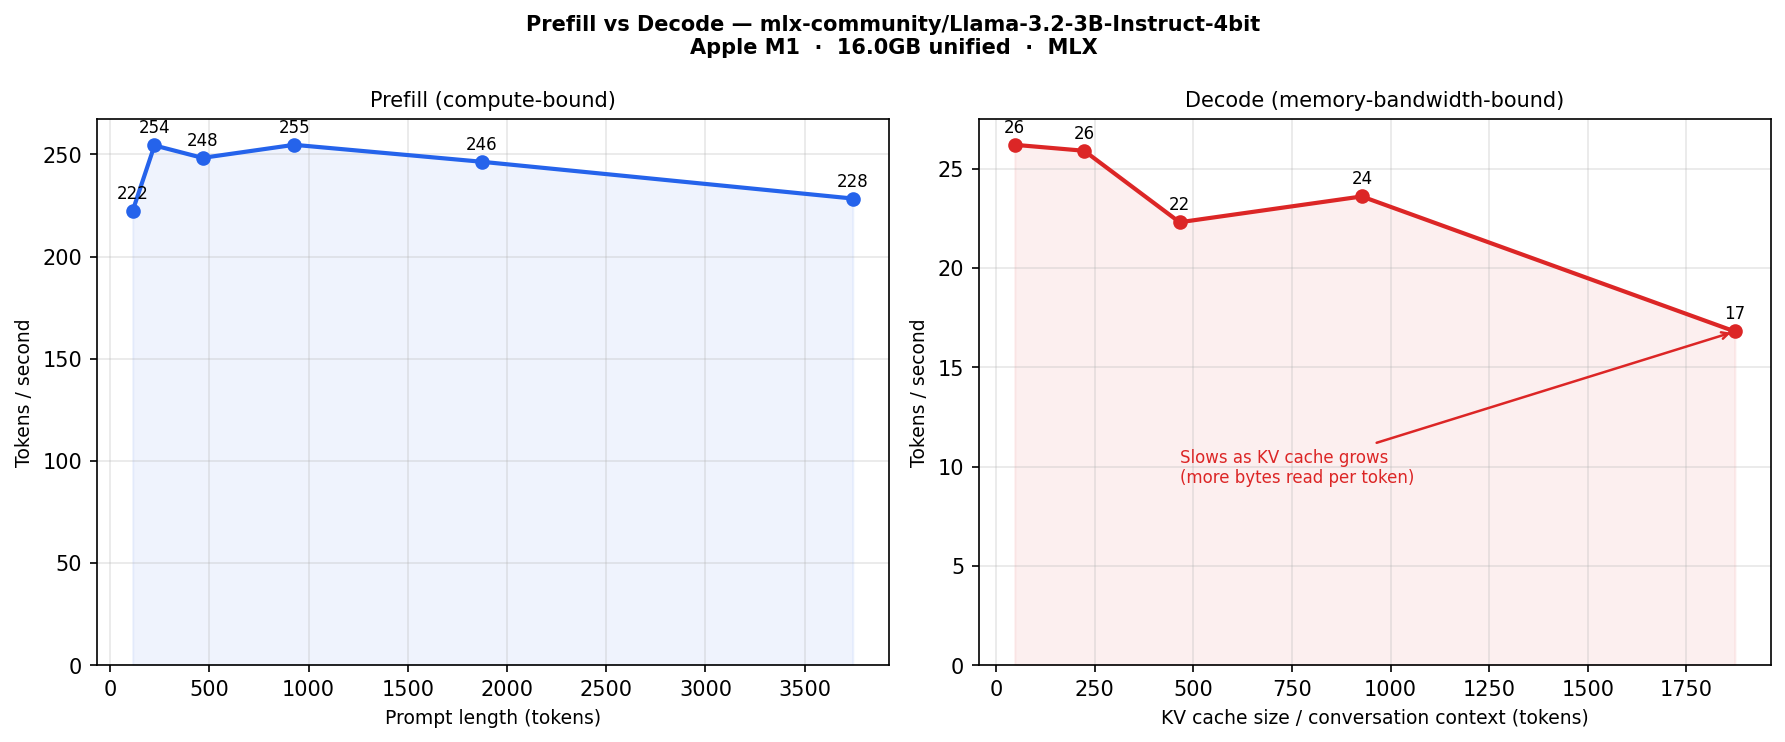
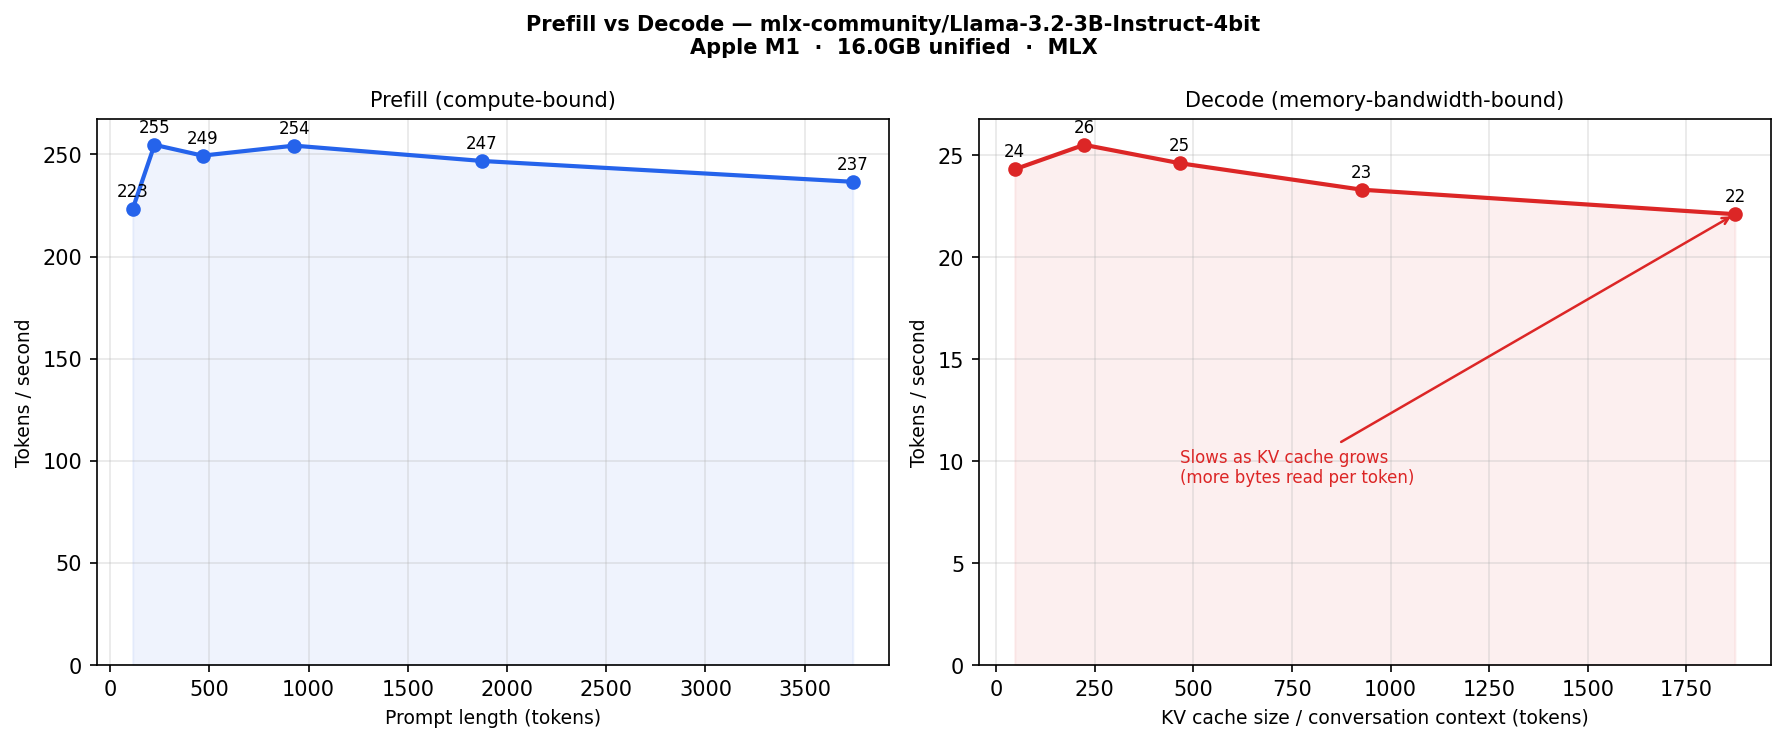
Enhance performance analysis in 'Running Conversational AI Locally' by adding measurements of Llama 3.2 and Whisper on Apple M1, including bandwidth contention details and profiling corrections for quantized models.

diff --git a/_posts/2026-03-08-Running-Conversational-AI-Locally.md b/_posts/2026-03-08-Running-Conversational-AI-Locally.md
@@ -158,6 +158,12 @@ The effect isn't that one crashes or fails. The effect is that both get slower i
 
 On the 1080 Ti, this was the first thing that made single-model benchmarks feel irrelevant. Each model hit its rated throughput in isolation. Under concurrent load, the pipeline became unpredictable. The models were fine. The system wasn't.
 
+This is measurable on current hardware. Running Llama 3.2 3B and Whisper simultaneously on an Apple M1 with 16GB unified memory using [prefill-decode-bench](https://github.com/akashicMarga/prefill-decode-bench):
+
+![Bandwidth Contention — LLM + Whisper on Apple M1](/assets/images/contention-m1-llama3b-whisper.png)
+
+LLM decode drops from 25.1 tok/s to 17.6 tok/s (−30%), and Whisper's real-time factor drops from 13.8x to 10.1x (−27%). Neither model crashed or ran out of memory — they just both got slower because they're competing for the same memory bus. In a speech pipeline, that 30% decode penalty translates directly to longer pauses between user input and system response.
+
 You can partially work around this through scheduling — serializing parts of the pipeline, batching ASR into segments rather than streaming frame by frame. But every workaround trades one problem for another. Serialize ASR and you increase response latency. Batch ASR and you increase transcription lag. There's no free option. The only structural solution is enough memory bandwidth that the contention penalty becomes small relative to total available throughput. This is one of the core reasons higher-bandwidth chips matter for this workload — not because a single model runs faster, but because multiple models running simultaneously degrade less.
 
 **KV cache growth over a session**
@@ -323,7 +329,25 @@ Here's what the output looks like on an Apple M1 with 16GB unified memory, runni
 
 ![Prefill vs Decode — Llama 3.2 3B on Apple M1](/assets/images/prefill-vs-decode-m1-llama3b.png)
 
-The left panel shows prefill throughput staying relatively flat (~222–254 tok/s) across prompt lengths from 128 to 4096 tokens — compute-bound, as expected. The right panel shows decode throughput degrading from 26 tok/s at a small KV cache to 17 tok/s at 2048 tokens — a 35% degradation as the conversation grows. That degradation is the memory bandwidth constraint becoming visible.
+The left panel shows prefill throughput staying relatively flat (~223–255 tok/s) across prompt lengths from 128 to 4096 tokens — compute-bound, as expected. The right panel shows decode throughput degrading from ~24 tok/s at a small KV cache to ~22 tok/s at 2048 tokens — a 13% degradation as the conversation grows. That degradation is the memory bandwidth constraint becoming visible.
+
+The profiler also captures hardware-level metrics that make the bottleneck concrete:
+
+![Hardware Metrics — Llama 3.2 3B on Apple M1](/assets/images/hardware-metrics-m1-llama3b.png)
+
+Three panels tell the story. **Peak Metal memory** shows the footprint growing from ~1.85GB (model weights only) to ~3.3GB as the KV cache fills — on 16GB unified memory, that's already 20% of total capacity for a single model. **Effective bandwidth** — now accounting for both model weight reads *and* KV cache reads per token — shows the M1 sustaining ~44–47 GB/s during decode against a theoretical peak of 68.25 GB/s, roughly 65–69% utilization. Notably, utilization stays nearly flat as the KV cache grows from 47 to 1873 tokens: the bus reads more data per token (model weights + growing KV cache) and delivers correspondingly more throughput, but the tok/s still drops because each token simply costs more bytes. **Prefill TFLOPS** reaches 1.3–1.4 TFLOPS — about 50–55% of the M1 GPU's ~2.6 TFLOPS theoretical peak — confirming that prefill is compute-bound and the GPU is working substantially harder during this phase.
+
+The arithmetic intensity of 3.1 FLOPs/byte during decode confirms what the theory predicts: well below the M1's roofline crossover of ~38 FLOPs/byte, placing decode firmly in bandwidth-bound territory. Every token requires reading the full model weights plus accumulated KV cache from memory but performs relatively few operations on them. This is why hardware with higher memory bandwidth — not more compute cores — translates directly to faster conversational response.
+
+**Validating theory against measurement — and two gotchas worth knowing**
+
+Getting these numbers right required fixing two measurement bugs that are easy to hit when profiling quantized models, and worth understanding if you're building your own profiling:
+
+*Gotcha 1: Quantized parameter counting.* MLX's `QuantizedLinear` packs multiple INT4 weights into single `uint32` storage elements. Naively counting array elements reports 0.50B parameters for a 3.2B model — a 6x undercount. TFLOPS computed from that (0.22) looks like the GPU is barely working, when the corrected figure (1.4 TFLOPS, ~54% of M1 peak) shows it's working hard during prefill. The fix: unpack the logical dimensions from each quantized layer's shape and bit-width rather than counting storage elements. If your profiler reports suspiciously low TFLOPS for a quantized model, this is likely why.
+
+*Gotcha 2: Bandwidth accounting must include the KV cache.* During decode, the model reads its weights *and* the full KV cache on every token. If you only count weight bytes in your effective bandwidth calculation, utilization appears to decline as the KV cache grows (64% → 55% in our first pass) — suggesting the bus is getting lazier, which makes no physical sense. Including KV cache reads (112 KB/token × sequence length for this model, derived from the GQA formula: `2 × 28 layers × 8 KV heads × 128 head_dim × 2 bytes`) corrects the picture: utilization holds steady at 65–69% across all KV sizes. The bus is doing *more* work per token as the conversation grows — which is exactly why tok/s drops. The bus isn't slower; each token is more expensive.
+
+With both corrections, the measured numbers align with the formulas from the earlier sections: model weight memory within 13% of `params × bytes_per_weight` (the overhead is quantization scales, FP16 embeddings, and layer norms), KV per token matching the GQA-adjusted formula exactly (112 KB), bandwidth utilization in the expected 60–70% range for real workloads, and arithmetic intensity confirming decode is bandwidth-bound. The theory section isn't just framework — it predicts what the profiler measures.
 
 On this M1 with 16GB, decode is already slow enough that a speech pipeline would feel the lag. On higher-bandwidth hardware — M3 Max, M4 Pro, Ultra configurations — the same curve exists but the starting point is higher and the degradation less steep. The tool lets you measure where your specific hardware sits on that curve, with your specific models, rather than relying on spec-sheet bandwidth numbers that don't account for real inference behavior.
 
